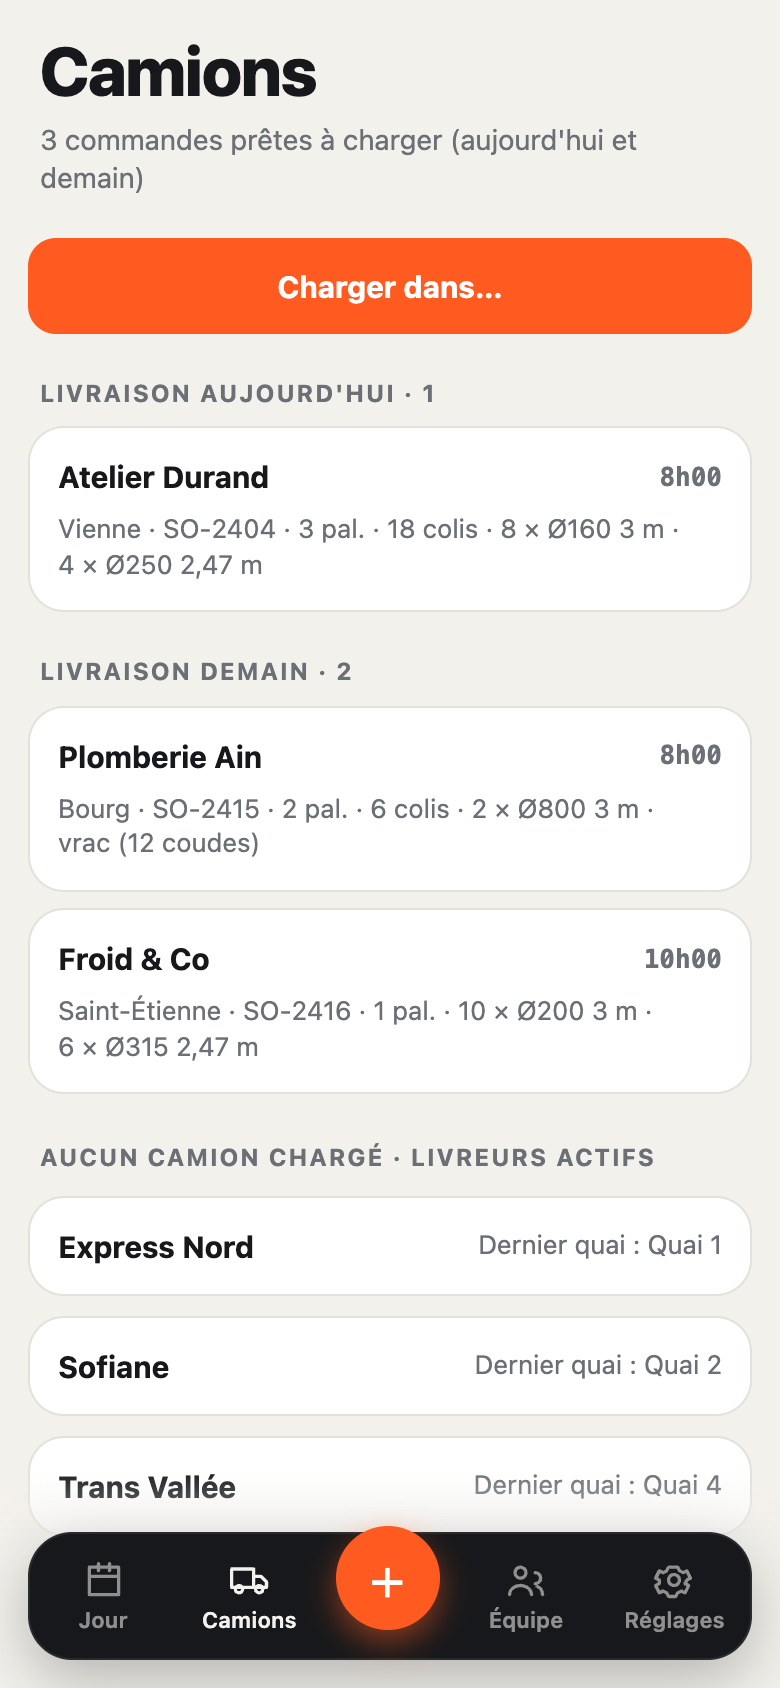
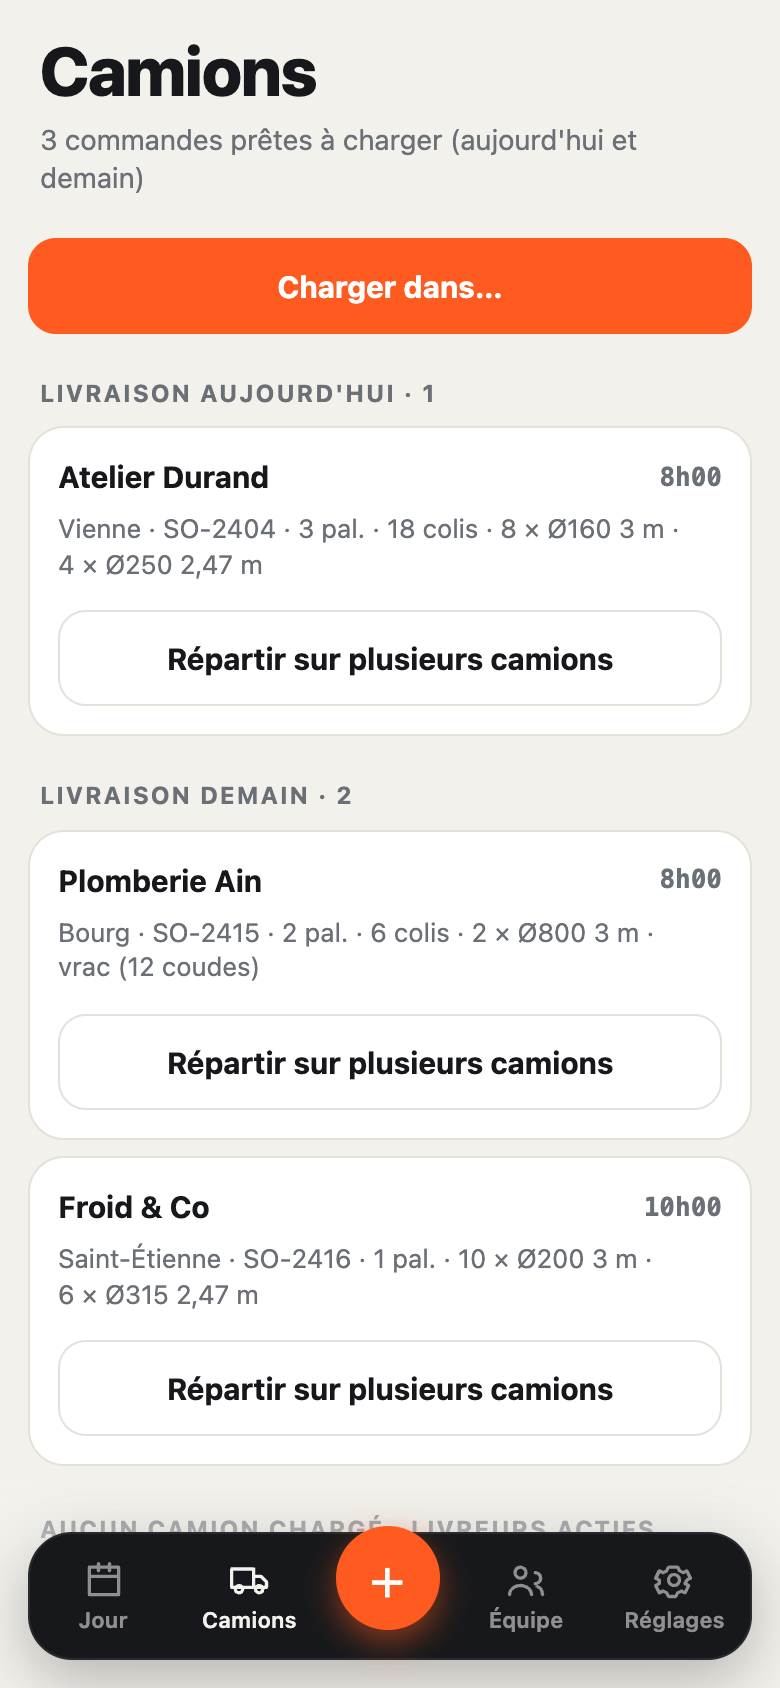
DockFlow V1.2 : répartition d'une commande sur plusieurs camions

diff --git a/src/SplitSheet.jsx b/src/SplitSheet.jsx
@@ -1,0 +1,62 @@
+import { useEffect, useState } from 'react'
+import { Sheet, toast } from './ui'
+import { lastDock, getState } from './store'
+import { ductsOf, ductLine, formatPack } from './pack'
+import { Stepper } from './DuctRows'
+import { checkSplit, splitOrder } from './split'
+import { withUndo } from './undo'
+
+const blank = () => ({ driver: '', dock: '', pallets: 0, parcels: 0 })
+
+// Répartir une commande prête sur 2 ou 3 camions (palettes / colis entiers, gaines et vrac non coupés)
+export function SplitSheet({ o, onClose, team }) {
+  const [parts, setParts] = useState([blank(), blank()])
+  const [ductOwner, setDuctOwner] = useState([])
+  const [bulkOwner, setBulkOwner] = useState(0)
+  useEffect(() => {
+    if (!o) return
+    setParts([{ ...blank(), pallets: o.pallets || 0, parcels: o.parcels || 0 }, blank()])
+    setDuctOwner(ductsOf(o).map(() => 0)); setBulkOwner(0)
+  }, [o?.id])
+  if (!o) return <Sheet open={false} />
+  const drivers = team.drivers.filter((d) => d.on), docks = team.docks.filter((d) => d.on)
+  const up = (i, p) => setParts(parts.map((x, k) => (k === i ? { ...x, ...p } : x)))
+  const err = checkSplit(o, parts, ductOwner, bulkOwner)
+  const ducts = ductsOf(o)
+  const go = () => {
+    withUndo('Commande répartie sur ' + parts.length + ' camions', () => splitOrder(o.id, parts, ductOwner, bulkOwner))
+    onClose()
+  }
+  return (
+    <Sheet open onClose={onClose}>
+      <div className="row"><h2>Répartir</h2><button className="xbtn" aria-label="Fermer" onClick={onClose}>×</button></div>
+      <div className="meta"><b>{o.client}</b> · {o.city} · <span className="num">{o.num}</span></div>
+      <div className="card meta">À répartir : {formatPack(o) || 'conditionnement non saisi'}</div>
+      {parts.map((p, i) => (
+        <div className="card" key={i} data-part={i + 1} style={{ gap: 8, display: 'flex', flexDirection: 'column' }}>
+          <div className="row"><b>Camion {i + 1}</b>
+            {parts.length > 2 && <button className="xbtn" aria-label={'Retirer le camion ' + (i + 1)} onClick={() => setParts(parts.filter((_, k) => k !== i))}>×</button>}</div>
+          <div className="btns">{drivers.map((d) => (
+            <button key={d.id} type="button" className={'big' + (p.driver === d.id ? ' on' : '')} data-part-driver={d.name}
+              onClick={() => up(i, { driver: d.id, dock: p.dock || lastDock(getState(), d.id) || '' })}>{d.name}</button>))}</div>
+          <select value={p.dock} onChange={(e) => up(i, { dock: e.target.value })} aria-label={'Quai camion ' + (i + 1)}>
+            <option value="">Quai non attribué</option>{docks.map((d) => <option key={d.id} value={d.id}>{d.name}</option>)}</select>
+          {(o.pallets || 0) > 0 && (<><span className="flab">Palettes</span><Stepper v={p.pallets} set={(v) => up(i, { pallets: v })} label={'palettes ' + (i + 1)} /></>)}
+          {(o.parcels || 0) > 0 && (<><span className="flab">Colis</span><Stepper v={p.parcels} set={(v) => up(i, { parcels: v })} label={'colis ' + (i + 1)} /></>)}
+        </div>))}
+      {parts.length < 3 && <button className="btn ghost" data-add-truck onClick={() => setParts([...parts, blank()])}>+ Ajouter un 3e camion</button>}
+      {ducts.length > 0 && <div className="lbl">Gaines (jamais coupées) : dans quel camion ?</div>}
+      {ducts.map((g, k) => (
+        <div key={k} className="opt" style={{ flexWrap: 'wrap', gap: 6 }} data-duct-line={k}><span className="num">{ductLine(g)}</span>
+          <span className="btns">{parts.map((_, i) => (
+            <button key={i} type="button" className={'big' + (ductOwner[k] === i ? ' on' : '')} style={{ minWidth: 52, minHeight: 44 }}
+              onClick={() => setDuctOwner(ductOwner.map((x, j) => (j === k ? i : x)))}>C{i + 1}</button>))}</span></div>))}
+      {o.bulk && (<>
+        <div className="lbl">Vrac : dans quel camion ?</div>
+        <div className="btns">{parts.map((_, i) => <button key={i} type="button" className={'big' + (bulkOwner === i ? ' on' : '')} onClick={() => setBulkOwner(i)}>Camion {i + 1}</button>)}</div></>)}
+      {err.length > 0 && <div className="meta" data-split-err style={{ color: 'var(--bad)', fontWeight: 600 }}>{err.join(' · ')}</div>}
+      <button className="btn acc" data-split-ok disabled={err.length > 0} onClick={go}>Charger dans {parts.length} camions</button>
+      <button className="btn ghost" onClick={() => { toast('Répartition annulée'); onClose() }}>Annuler</button>
+    </Sheet>
+  )
+}

diff --git a/src/Trucks.jsx b/src/Trucks.jsx
@@ -7,6 +7,8 @@ import { formatPack, fmtH, formatPackUI } from './pack'
 import { dockName } from './people'
 import { loadPdf, deliver } from './pdf'
 import { withUndo } from './undo'
+import { SplitSheet } from './SplitSheet'
+import { partLabel } from './split'
 
 function SigPad({ onSave }) {
   const ref = useRef(), drawing = useRef(false), dirty = useRef(false)
@@ -28,6 +30,7 @@ function SigPad({ onSave }) {
 export function Trucks({ s }) {
   const t0 = today(), tm = addDays(t0, 1), date = t0
   const [pickFor, setPickFor] = useState(null), [dock, setDock] = useState(''), [sel, setSel] = useState([]), [drv, setDrv] = useState('')
+  const [splitFor, setSplitFor] = useState(null)
   const [sigFor, setSigFor] = useState(null), [back, setBack] = useState(null), [leaving, setLeaving] = useState(null)
   const ready = toLoad(s, t0, tm)
   const day = s.orders.filter((o) => o.status !== 'cancel')
@@ -47,7 +50,8 @@ export function Trucks({ s }) {
         {[[t0, 'Livraison aujourd\'hui'], [tm, 'Livraison demain']].map(([d, l]) => { const g = ready.filter((o) => o.date === d); return g.length ? (
           <div key={d} data-ready-group={d}><div className="grp">{l} · {g.length}</div>
             {g.map((o) => <div key={o.id} className="card" style={{ marginTop: 8 }}><div className="row"><b>{o.client}</b><span className="num">{fmtH(o.time)}</span></div>
-              <div className="meta">{o.city} · {o.num} · {formatPackUI(o)}</div></div>)}</div>) : null })}
+              <div className="meta">{o.city} · {o.num} · {formatPackUI(o)}</div>
+              <button className="btn ghost" data-split={o.num} style={{ marginTop: 6 }} onClick={() => setSplitFor(o)}>Répartir sur plusieurs camions</button></div>)}</div>) : null })}
         {!day.some((o) => o.driver && ['loaded', 'go'].includes(o.status)) && (<>
           <div className="sec" style={{ padding: '14px 6px 0' }}><span>Aucun camion chargé · livreurs actifs</span></div>
           {drivers.map((dr) => { const last = lastDock(s, dr.id)
@@ -68,7 +72,7 @@ export function Trucks({ s }) {
               <div className="meta">{ld ? 'Chargé le ' + fmtDM(new Date(ld).toISOString().slice(0, 10)) + ' à ' + hhmm(ld) + ' · ' : ''}Livraisons du {dates.map(fmtDM).join(', ')}</div>
               <AnimatePresence>{os.map((o) => (
                 <motion.div key={o.id} layout className="meta" animate={leaving === dr.id ? { y: -6 } : { y: 0 }} style={{ display: 'flex', justifyContent: 'space-between' }}>
-                  <span><b>{o.client}</b> · {o.city} {fmtH(o.time)} <span className="num">{o.num}</span></span><span style={{ color: STATUS[o.status].c, fontWeight: 700 }}>{STATUS[o.status].l}</span></motion.div>))}</AnimatePresence>
+                  <span><b>{o.client}</b> · {o.city} {fmtH(o.time)} <span className="num">{o.num}{o.part ? ' · ' + partLabel(o) : ''}</span></span><span style={{ color: STATUS[o.status].c, fontWeight: 700 }}>{STATUS[o.status].l}</span></motion.div>))}</AnimatePresence>
               {dep && <div className="meta">Départ à {hhmm(dep)}{s.sigs[dr.id + date] ? ' · signé' : ''}</div>}
               <div className="btns">
                 {loaded.length > 0 && <button className="btn ghost" onClick={() => setSigFor(dr)}>{s.sigs[dr.id + date] ? 'Signature faite' : 'Signature'}</button>}
@@ -92,6 +96,7 @@ export function Trucks({ s }) {
         <button className="btn acc" data-confirm disabled={!sel.length || !drv} onClick={() => { const dn = nameOf(drivers, drv); withUndo((sel.length > 1 ? sel.length + ' commandes chargées' : 'Commande chargée') + ' · ' + dn, () => loadTo(sel, drv, dock || null)); setPickFor(null) }}>Charger{sel.length ? ' (' + sel.length + ')' : ''}</button>
         <button className="btn ghost" data-cancel onClick={() => setPickFor(null)}>Annuler</button>
       </Sheet>
+      <SplitSheet o={splitFor ? s.orders.find((x) => x.id === splitFor.id) : null} onClose={() => setSplitFor(null)} team={s.team} key={'sp' + (splitFor?.id || '')} />
       <Sheet open={!!sigFor} onClose={() => setSigFor(null)}>
         <h2>Signature · {sigFor?.name}</h2>
         <SigPad onSave={(d) => { saveSig(sigFor.id, date, d); setSigFor(null); toast('Signature enregistrée') }} />

diff --git a/src/split.js b/src/split.js
@@ -1,0 +1,54 @@
+// Répartition d'une commande sur plusieurs camions (option A : palettes / colis entiers,
+// une ligne de gaines ou le vrac partent en entier dans un seul camion).
+import { setState, getState, nameOf, uid, hhmm } from './store'
+import { formatPack, ductsOf } from './pack'
+
+const log = (o, action) => ({ ...o, history: [...(o.history || []), { ts: Date.now(), action, by: 'Moi' }] })
+
+// Contenu d'une partie à partir de la répartition saisie
+export function partPack(o, p, i, ductOwner, bulkOwner) {
+  return {
+    pallets: p.pallets, parcels: p.parcels,
+    ducts: ductsOf(o).filter((_, k) => ductOwner[k] === i).map((g) => ({ ...g })),
+    bulk: !!o.bulk && bulkOwner === i, bulkNote: o.bulk && bulkOwner === i ? o.bulkNote || '' : '',
+  }
+}
+
+// Vérifie que tout est réparti : renvoie la liste des problèmes (vide = OK)
+export function checkSplit(o, parts, ductOwner, bulkOwner) {
+  const err = []
+  const pal = parts.reduce((a, p) => a + p.pallets, 0), col = parts.reduce((a, p) => a + p.parcels, 0)
+  if (pal !== (o.pallets || 0)) err.push(pal < (o.pallets || 0) ? 'reste ' + ((o.pallets || 0) - pal) + ' pal. à répartir' : (pal - (o.pallets || 0)) + ' pal. en trop')
+  if (col !== (o.parcels || 0)) err.push(col < (o.parcels || 0) ? 'reste ' + ((o.parcels || 0) - col) + ' colis à répartir' : (col - (o.parcels || 0)) + ' colis en trop')
+  parts.forEach((p, i) => {
+    if (!p.driver) err.push('camion ' + (i + 1) + ' : livreur à choisir')
+    if (!formatPack(partPack(o, p, i, ductOwner, bulkOwner))) err.push('camion ' + (i + 1) + ' : vide')
+  })
+  const drv = parts.map((p) => p.driver).filter(Boolean)
+  if (new Set(drv).size !== drv.length) err.push('un même livreur est choisi deux fois')
+  return err
+}
+
+// Remplace la commande par N parties, chacune chargée dans son camion.
+// La 1re partie garde l'identifiant (et l'historique) de la commande d'origine.
+export function splitOrder(id, parts, ductOwner, bulkOwner) {
+  const s = getState(), o = s.orders.find((x) => x.id === id)
+  if (!o || checkSplit(o, parts, ductOwner, bulkOwner).length) return false
+  const ts = Date.now(), n = parts.length, g = o.id
+  const names = parts.map((p) => nameOf(s.team.drivers, p.driver))
+  const made = parts.map((p, i) => {
+    const base = i === 0 ? o : { ...o, id: uid(), history: [...(o.history || [])], photos: [...(o.photos || [])], missing: [] }
+    const pk = partPack(o, p, i, ductOwner, bulkOwner)
+    let x = { ...base, ...pk, part: { i: i + 1, n, g }, driver: p.driver, dock: p.dock || null, status: 'loaded', loadedAt: ts }
+    x = log(x, 'Répartie sur ' + n + ' camions (' + names.join(', ') + ')')
+    return log(x, 'Partie ' + (i + 1) + '/' + n + ' chargée → ' + names[i] + ' à ' + hhmm(ts) + ' · ' + formatPack(pk))
+  })
+  setState((st) => {
+    const out = []
+    st.orders.forEach((x) => { if (x.id === id) out.push(...made); else out.push(x) })
+    return { ...st, orders: out }
+  })
+  return true
+}
+
+export const partLabel = (o) => (o.part ? 'Partie ' + o.part.i + '/' + o.part.n : '')

diff --git a/src/calcAlerts.js b/src/calcAlerts.js
@@ -19,6 +19,9 @@ export function alerts(s, now = Date.now()) {
       if (['todo', 'prep', 'wait'].includes(o.status)) out.push({ o, kind: 'tm-np', txt: 'Livraison demain non prête' })
       if (o.status === 'ready') out.push({ o, kind: 'tm-nl', txt: 'Livraison demain prête mais non chargée' })
     }
+    // Livraison partielle : une partie non livrée alors qu'une autre l'est
+    if (o.part && o.status === 'fail' && s.orders.some((x) => x.part?.g === o.part.g && x.status === 'done'))
+      out.push({ o, kind: 'part', txt: 'Livraison partielle : partie ' + o.part.i + '/' + o.part.n + ' non livrée' })
     if (hasIssue(o) && o.missing.length) {
       const ts = lastTs(o, /^Problème signalé/)
       if (ts && now - ts > H24) out.push({ o, kind: 'miss', txt: 'Manquant non résolu depuis ' + age(now - ts) })

diff --git a/src/Card.jsx b/src/Card.jsx
@@ -44,7 +44,7 @@ function CardBase({ o, team, onOpen, onProblem, onMenu, onAdvance }) {
         <div className="cli">{o.client}</div>
         <div className="st">{issue ? 'Problème' : st.l}</div>
         <div className="where">{where(o) || 'Ville non renseignée'}{o.status === 'moved' ? ' · → ' + fmtDM(o.date) : ''}</div>
-        <div className="num">{o.num}</div>
+        <div className="num">{o.num}{o.part ? ' · Partie ' + o.part.i + '/' + o.part.n : ''}</div>
         <div className="meta">{[prepName(team, o.prep), pack, o.dock && team.docks.find((d) => d.id === o.dock)?.name, o.driver && team.drivers.find((d) => d.id === o.driver)?.name].filter(Boolean).join(' · ')}</div>
         {issue ? (
           <div className="flag">

diff --git a/src/pdf.js b/src/pdf.js
@@ -33,7 +33,7 @@ function row(d, y, o, s) {
   d.setFontSize(11); d.text((o.city || 'Ville non renseignée') + (o.time ? '   ' + fmtH(o.time) : ''), tx, yy + 6)
   pill(d, W - M - 38, y + 3, STATUS[o.status].l, stColor(STATUS[o.status].c))
   d.setFont('courier', 'normal'); d.setFontSize(8); d.setTextColor(...MUT)
-  d.text(o.num + '  ·  ' + prepName(s.team, o.prep), tx, yy + 11)
+  d.text(o.num + (o.part ? '  ·  LIVRAISON PARTIELLE ' + o.part.i + '/' + o.part.n : '') + '  ·  ' + prepName(s.team, o.prep), tx, yy + 11)
   d.setFont('helvetica', 'normal'); d.setFontSize(9); d.setTextColor(...INK)
   if (lines.length) d.text(lines, tx, yy + 16)
   else { d.setTextColor(...MUT); d.text('Conditionnement non saisi', tx, yy + 16) }
